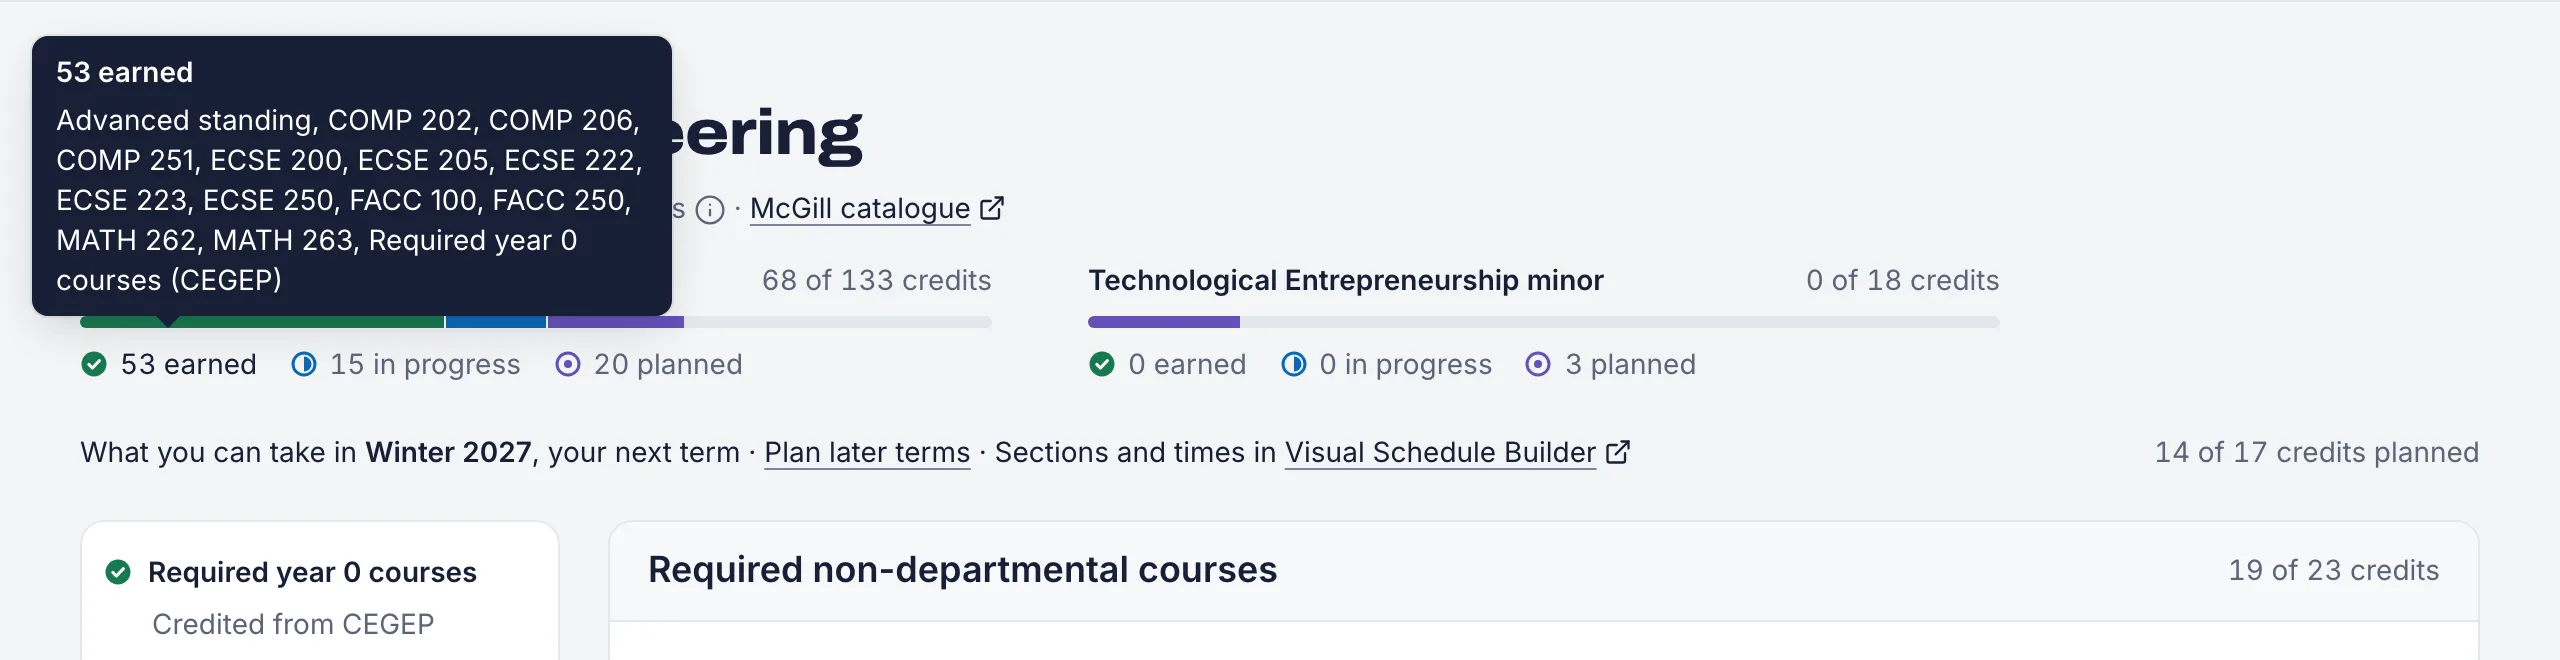
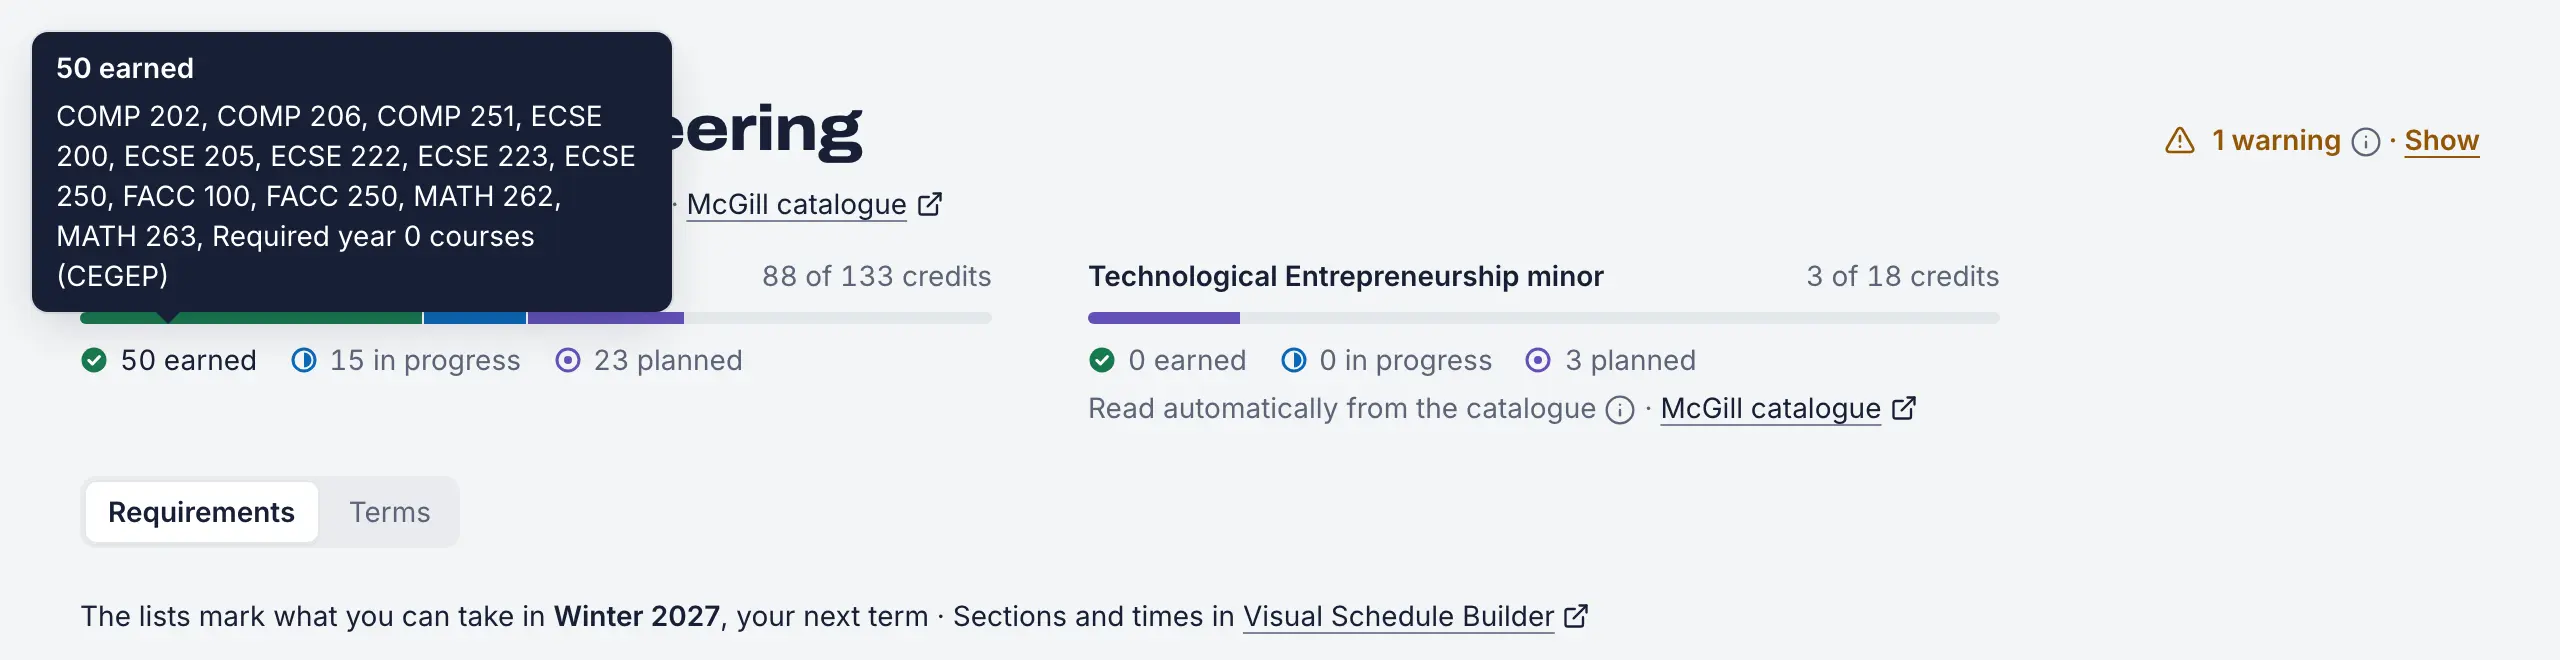
docs: retake the README screenshots for the merged plan page (#160)

diff --git a/README.md b/README.md
@@ -22,24 +22,26 @@ Quebec CEGEP students get Year 0 credited, Science DEC courses meet prerequisite
 
 ![The transcript review screen with each course, its term, status, credits and grade, and the degree details beside it](docs/screenshots/import.webp)
 
-### See what's next
+### See what you still need
 
-See the courses you can take next term and the required ones you still need, requirement by requirement.
+The Plan page shows your program's credits once, then switches between Requirements and Terms.
+Requirements lists the courses you can take next term and the required ones you still need, requirement by requirement.
 With a minor, its progress bar sits beside the major's.
 
-![What's next with the major and minor bars, the requirement list and the courses for one requirement](docs/screenshots/whats-next.webp)
+![The Plan page on Requirements, with the major and minor bars, the requirement list and the courses for one requirement](docs/screenshots/plan-requirements.webp)
 
 Hover or tab to earned, in progress or planned on any bar to see the courses behind the number.
 
-![A tooltip listing the 53 earned credits course by course](docs/screenshots/breakdown.webp)
+![A tooltip listing the 50 earned credits course by course](docs/screenshots/breakdown.webp)
 
 ### Plan every term
 
-Lay out each term until graduation, with warnings for missing prerequisites, terms a course is not offered, and credit overloads.
-The plan lists what is still missing, and a minor counts the courses it shares with your major only up to the limit on its catalogue page.
+Terms lays out each term until graduation, with warnings for missing prerequisites, terms a course is not offered, and credit overloads.
+Change your expected graduation right on the path.
+A minor counts the courses it shares with your major only up to the limit on its catalogue page.
 Once a term's courses are set, pick their sections and times in McGill's [Visual Schedule Builder](https://vsb.mcgill.ca/criteria.jsp).
 
-![The planner with credits for the major and minor, the requirements still open and the path of terms](docs/screenshots/planner.webp)
+![The Plan page on Terms, with the path to graduation and the four courses planned for Winter 2027](docs/screenshots/plan-terms.webp)
 
 ### Browse every course
 
